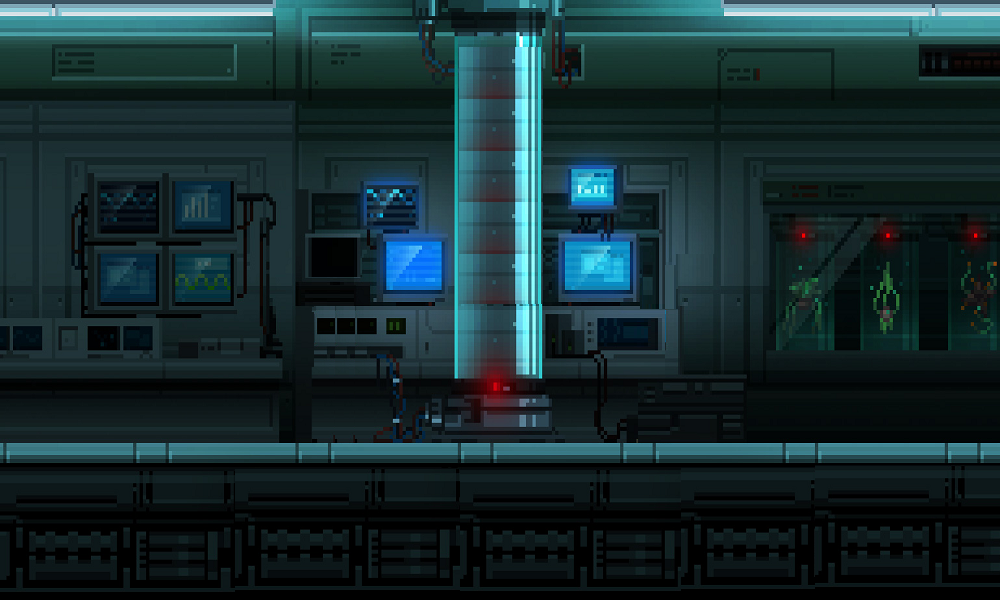
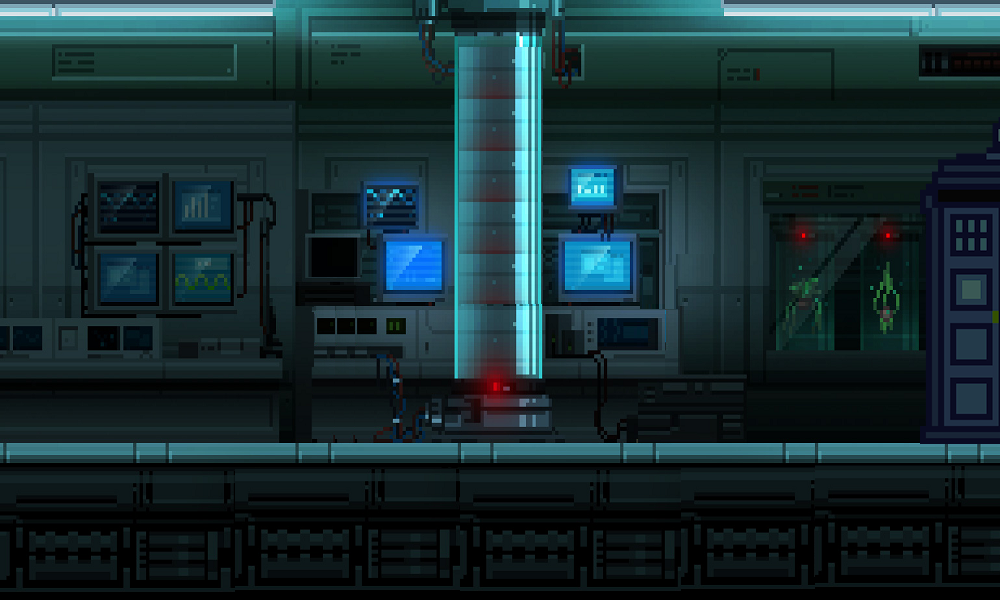
Exercice 7.46
Ajout d'une TransporterRoom
On ajoute un nouveau Type de Room, une TransporterRoom (classe à part héritant de Room)
Cette Room va teleporter le joueur qui rentre dedans dans une autre salle au hasard parmi un ensemble fourni dans le constructeur
La methode getExit de cette classe à été Overwritten pour que si on aille vers l'ouest, la sortie renvoyée soit une salle au hasard
Le choix aléatoire est fait par la classe java.util.Random et sa methode nextInt() qui renvoie un nombre au hasard entre 0 inclus et le nombre maximal décidé exclus
Ce nombre aléatoire n est ensuite utilisé pour prendre la n-ième valeur de l'Array des salles disponibles
C'est ce que la methode goRoom() renvoie alors

On implémente aussi un attribut aPseudoRandom tel que si il est différent de null (sa valeur par defaut) il court-circuite le raisonement précédent et c'est ce que goRoom renvoie
C'est en prévision de l'exercice 7.46.1

Changed region(s): [[0.899, 0.21, 1.0, 0.75]]

diff --git a/zuul/TransporterRoom.java b/zuul/TransporterRoom.java
@@ -1,0 +1,57 @@
+import java.util.Random;
+/**
+ * Write a description of class TransporterRoom here.
+ * 
+ * @author (your name) 
+ * @version (a version number or a date)
+ */
+public class TransporterRoom extends Room
+{
+    private Room aPseudoRandom;
+    private Room[] aAvailableRooms;
+    /**
+     * Constructor for objects of class TransporterRoom
+     */
+    public TransporterRoom (final String pDesc, final String pImg, final Room[] pARooms)
+    {
+        super(pDesc,pImg);
+        this.aPseudoRandom = null;
+        this.aAvailableRooms = pARooms;
+    }
+
+    @Override
+    /**
+     * accesseur de la direction
+     * @param pDirection la direction
+     * @return la room qui fait face à cette direction
+     */
+    public Room getExit(final String pDirection){
+        if (pDirection.equals("west")){
+            return findARandomRoom();
+        }
+        else{            
+            return null;
+        }
+    }
+
+    @Override
+    public String getExitString(){
+        return "une salle au hasard dans la maison à portée de l'appareil";
+    }
+
+    public Room findARandomRoom(){
+        if (aPseudoRandom == null){
+            Random vRandomObject = new Random();
+            int vI = vRandomObject.nextInt(this.aAvailableRooms.length); //DERNIER NON INCLUS
+            return aAvailableRooms[vI];
+        }
+        else{
+            return this.aPseudoRandom;
+        }
+    }
+
+    public void setPseudoRandom(final Room pR){
+        this.aPseudoRandom = pR;
+    }
+
+}

diff --git a/zuul/GameEngine.java b/zuul/GameEngine.java
@@ -23,6 +23,7 @@ public class GameEngine
     private Player aPlayer;
     private Timer aTimer;
     private int aTime;
+  
 
     /**
      * constructeur par defaut de la classe Game
@@ -74,13 +75,17 @@ public class GameEngine
 
         Room vSallePuzzle = new Room("Salle du puzzle" ,"Images/sallePuzzle.png");
         aRooms.put("Salle du puzzle",vSallePuzzle);
-
+        
         Room vChambrePrincipale = new Room("Chambre du maitre de maison","Images/chambrePrincipale.png" );
         aRooms.put("Chambre Principale",vChambrePrincipale);
 
         Room vSalleEquipement = new Room("Salle secrete de l'équipement","Images/salleEquipement.png" );
         aRooms.put("Salle Equipement",vSalleEquipement);
 
+        String vDescTPRoom = "Salle expérimentale permettant de se téléporter à un endroit de la maison au hasard";
+        Room[] vExitsArray = new Room[]{vSalleEquipement, vChambrePrincipale, vBibliotheque, vCouloirG};
+        TransporterRoom vTPRoom = new TransporterRoom(vDescTPRoom, "Images/TPRoom.png", vExitsArray);
+       
         Room vEscape = new Room("Crypte avec un bateau pour s'echapper","Images/escape.png"  );
         aRooms.put("Salle finale",vEscape);
 
@@ -113,6 +118,7 @@ public class GameEngine
         vChambrePrincipale.setExits("east",vCouloirG);
 
         vSalleEquipement.setExits("south",vChambrePrincipale);
+        vSalleEquipement.setExits("east",vTPRoom);
 
         vEscape.setExits("south",vSallePuzzle);
 
